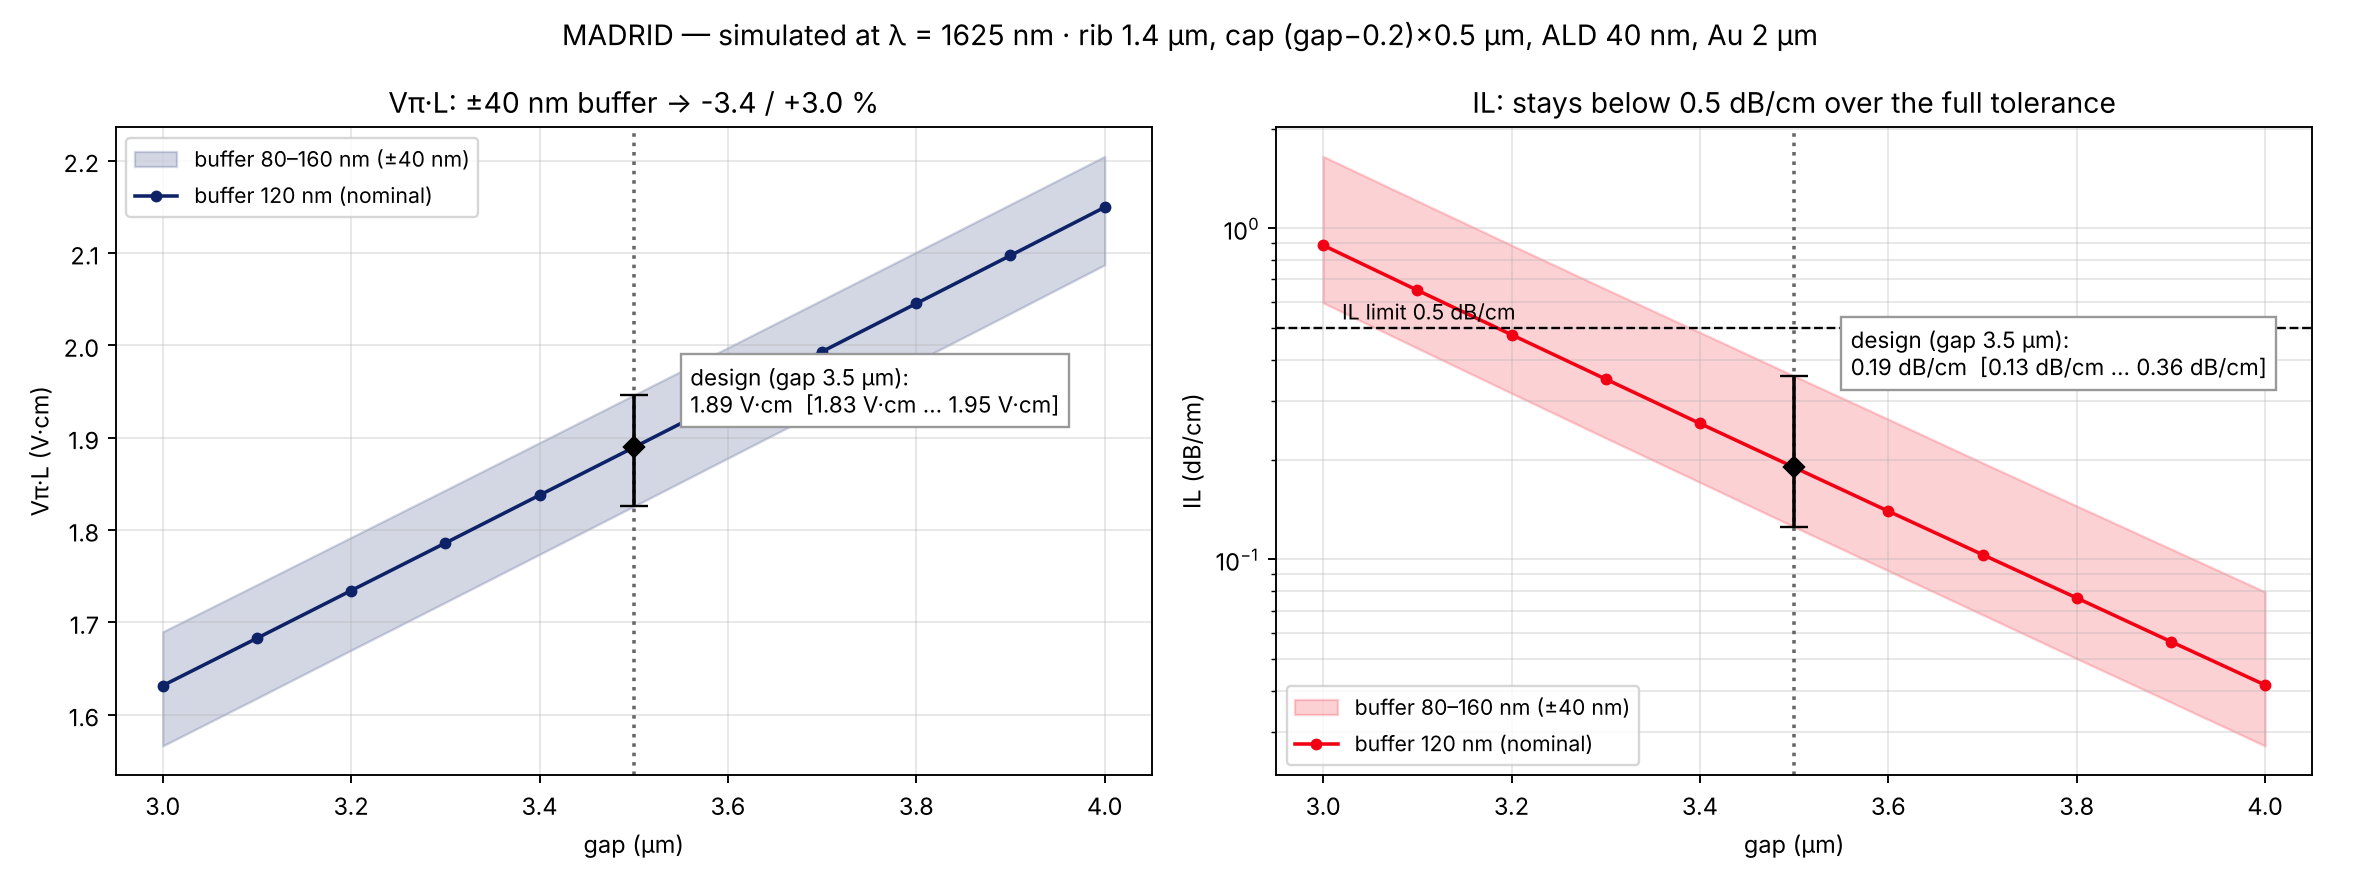
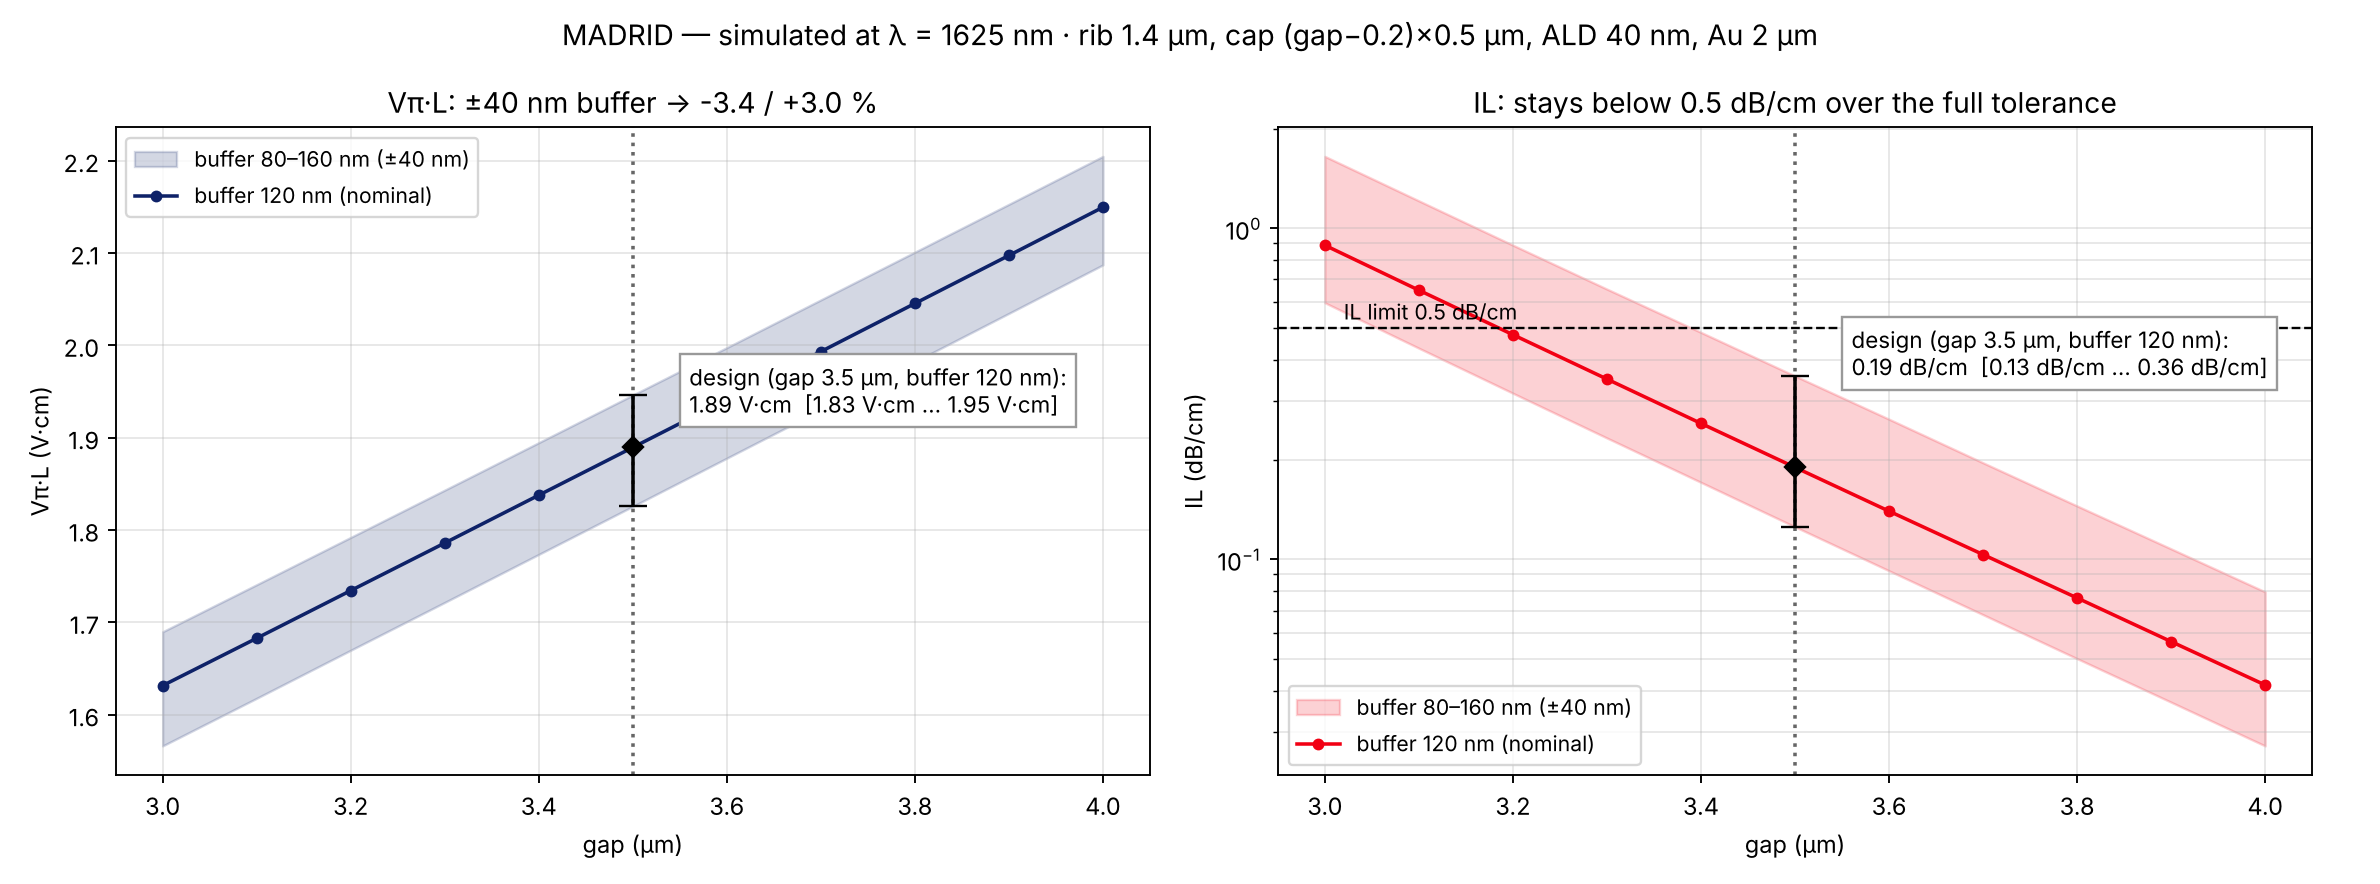
Madrid no-ALD: 55-run sweep, cross-section and tolerance plot (gap 3.2, buffer 120)
Claude-Session: https://claude.ai/code/session_01EHQDy7yrZwCZyHELu6KFb3

diff --git a/results/madrid/madrid_figs.py b/results/madrid/madrid_figs.py
@@ -1,9 +1,14 @@
-import csv, numpy as np
+import csv, sys, numpy as np
+GAP=float(sys.argv[1]) if len(sys.argv)>1 else 3.5
+BN=int(sys.argv[2]) if len(sys.argv)>2 else 120
+TA=float(sys.argv[3]) if len(sys.argv)>3 else 0.04
+SUF=sys.argv[4] if len(sys.argv)>4 else ''
 import matplotlib; matplotlib.use("Agg"); import matplotlib.pyplot as plt
 from matplotlib.patches import Polygon as P, Rectangle as R
 C=dict(Au="#f2c14e",LN="#8b95a1",SiO2="#a9cdf2",ALD="#e0218a",air="white")
 # ---------------- cross-section (true 1:1) ----------------
-GAP,B,T,MTX,CW,CH,SL,WH,WT=3.5,0.12,0.04,2.0,3.3,0.5,0.275,0.275,1.4
+B,T,MTX,CH,SL,WH,WT=BN/1e3,TA,2.0,0.5,0.275,0.275,1.4
+CW=round(GAP-0.2,3)
 WB=WT+2*WH/np.tan(np.radians(60)); yb=SL+B; ye=yb+MTX; xg=GAP/2
 def draw(a,xl,yl,big=False):
     a.add_patch(R((-60,-4.7),120,4.7,fc=C["SiO2"],ec="k",lw=.4))
@@ -18,6 +23,7 @@ def draw(a,xl,yl,big=False):
     from shapely.ops import unary_union
     sol=unary_union([sb(-60,-4.7,60,yb),sb(-CW/2,yb,CW/2,yb+CH),sb(-xg-30,yb,-xg,ye),sb(xg,yb,xg+30,ye)])
     ald=sol.buffer(T,join_style=2,mitre_limit=10).difference(sol).intersection(sb(-60,-5,60,10))
+    if T<=0: return a.set_xlim(*xl), a.set_ylim(*yl), a.set_aspect('equal'), a.set_xlabel('x (µm)'), a.set_ylabel('y (µm)')
     for p in [q for q in getattr(ald,"geoms",[ald]) if q.geom_type=="Polygon"]:
         a.add_patch(P(list(p.exterior.coords),fc=C["ALD"],ec="none",zorder=5))
         for h in p.interiors: a.add_patch(P(list(h.coords),fc="white",ec="none",zorder=5))
@@ -32,45 +38,45 @@ def dim(a,x0,x1,y,t,vert=False,off=0.05,fs=9,col="k"):
 fig=plt.figure(figsize=(16,10.5)); gs=fig.add_gridspec(2,2,height_ratios=[0.5,1.3])
 a=fig.add_subplot(gs[0,:]); draw(a,(-40,40),(-4.7,4.2))
 dim(a,-xg-30,-xg,ye+0.4,"ground 30 µm"); dim(a,xg,xg+30,ye+0.4,"signal 30 µm")
-a.text(0,ye+0.45,"gap 3.5",ha="center",fontsize=9); a.text(-38,-2.5,"BOX SiO₂ 4.7 µm",fontsize=9)
-a.set_title("MADRID — true 1:1 scale, full cross-section as simulated (λ = 1625 nm)")
+a.text(0,ye+0.45,f"gap {GAP}",ha="center",fontsize=9); a.text(-38,-2.5,"BOX SiO₂ 4.7 µm",fontsize=9)
+a.set_title(("MADRID (no ALD)" if T<=0 else "MADRID")+" — true 1:1 scale, full cross-section as simulated (λ = 1625 nm)")
 b=fig.add_subplot(gs[1,0]); draw(b,(-2.6,2.6),(-0.5,2.9))
-dim(b,-xg,xg,2.55,"gap 3.5 µm"); dim(b,-CW/2,CW/2,yb+CH+0.12,"cap 3.3 µm (gap − 0.2)",fs=8.5)
+dim(b,-xg,xg,2.55,f"gap {GAP} µm"); dim(b,-CW/2,CW/2,yb+CH+0.12,f"cap {CW} µm (gap − 0.2)",fs=8.5)
 dim(b,yb,yb+CH,-1.55,"cap 0.5 µm",vert=True,fs=8.5); dim(b,yb,ye,2.2,"Au MTX\n2.0 µm\n(≥1.5)",vert=True,fs=8.5)
 dim(b,-WT/2,WT/2,SL+WH+0.06,"rib top 1.4 µm",fs=8.5,off=0.01)
 dim(b,0,SL,-2.45,"slab 275 nm",vert=True,fs=8.5); dim(b,SL,SL+WH,-1.25,"etch 275 nm (film 550 nm)",vert=True,fs=8.5)
-b.annotate("SiO₂ buffer 120 ± 40 nm\n(whole wafer, under gold too)",(2.3,SL+B/2),(1.0,-0.33),fontsize=8,arrowprops=dict(arrowstyle="->"))
+b.annotate(f"SiO₂ buffer {BN} ± 40 nm\n(whole wafer, under gold too)",(2.3,SL+B/2),(1.0,-0.33),fontsize=8,arrowprops=dict(arrowstyle="->"))
 b.text(-2.5,-0.35,"rib walls 60°, bottom 1.72 µm",fontsize=8.5)
 b.set_title("One gap (1:1)")
 c=fig.add_subplot(gs[1,1]); draw(c,(1.45,2.05),(0.15,0.9))
-dim(c,SL,yb,1.5,"buffer\n120 nm",vert=True,fs=9); dim(c,CW/2,xg,0.84,"slot 0.1 µm (20 nm air left)",fs=9,off=0.006)
-c.annotate("ALD Al₂O₃ 40 nm\n(conformal, after gold)",(1.665,0.55),(1.47,0.66),fontsize=9,arrowprops=dict(arrowstyle="->"))
+dim(c,SL,yb,1.5,f"buffer\n{BN} nm",vert=True,fs=9); dim(c,CW/2,xg,0.84,"slot 0.1 µm (20 nm air left)" if T>0 else "slot 0.1 µm (air)",fs=9,off=0.006)
+(c.annotate if T>0 else (lambda *x,**k:None))("ALD Al₂O₃ 40 nm\n(conformal, after gold)",(1.665,0.55),(1.47,0.66),fontsize=9,arrowprops=dict(arrowstyle="->"))
 c.text(1.9,0.6,"Au",fontsize=10); c.text(1.48,0.2,"LN slab",fontsize=9); c.text(1.48,0.42,"cap",fontsize=9)
 c.set_title("Zoom: cap / gold slot (1:1)")
 import matplotlib.patches as mp
-fig.legend(handles=[mp.Patch(color=C[k],label=l) for k,l in [("Au","gold"),("LN","LN (X-cut)"),("SiO2","SiO₂"),("ALD","ALD Al₂O₃ 40 nm")]],loc="lower center",ncol=4)
-fig.tight_layout(rect=(0,0.04,1,1)); fig.savefig("madrid_cross_section.png",dpi=170)
+fig.legend(handles=[mp.Patch(color=C[k],label=l) for k,l in [("Au","gold"),("LN","LN (X-cut)"),("SiO2","SiO₂")]+([("ALD","ALD Al₂O₃ 40 nm")] if T>0 else [])],loc="lower center",ncol=4)
+fig.tight_layout(rect=(0,0.04,1,1)); fig.savefig(f"madrid_cross_section{SUF}.png",dpi=170)
 # ---------------- FOM plot ----------------
-rows=[r for r in csv.DictReader(open("madrid_sweep.csv")) if r["ald_nm"]=="40" and r["mtx_um"] in("2.0","2")]
+rows=[r for r in csv.DictReader(open("madrid_sweep.csv")) if r["ald_nm"]==str(round(TA*1e3)) and r["mtx_um"] in("2.0","2")]
 def get(b):
     rr=sorted([r for r in rows if int(r["buffer_nm"])==b],key=lambda r:float(r["gap_um"]))
     return np.array([float(r["gap_um"]) for r in rr]),np.array([float(r["IL_dB_per_cm"]) for r in rr]),np.array([float(r["VpiL_Vcm"]) for r in rr])
-g,i80,v80=get(80); _,i120,v120=get(120); _,i160,v160=get(160)
+g,i80,v80=get(BN-40); _,i120,v120=get(BN); _,i160,v160=get(BN+40)
 fig,(a1,a2)=plt.subplots(1,2,figsize=(14,5.2))
-a1.fill_between(g,v80,v160,color="#0E2268",alpha=.18,label="buffer 80–160 nm (±40 nm)")
-a1.plot(g,v120,"o-",color="#0E2268",ms=4,label="buffer 120 nm (nominal)")
-a2.fill_between(g,i160,i80,color="#F20013",alpha=.18,label="buffer 80–160 nm (±40 nm)")
-a2.semilogy(g,i120,"o-",color="#F20013",ms=4,label="buffer 120 nm (nominal)")
+a1.fill_between(g,v80,v160,color="#0E2268",alpha=.18,label=f"buffer {BN-40}–{BN+40} nm (±40 nm)")
+a1.plot(g,v120,"o-",color="#0E2268",ms=4,label=f"buffer {BN} nm (nominal)")
+a2.fill_between(g,i160,i80,color="#F20013",alpha=.18,label=f"buffer {BN-40}–{BN+40} nm (±40 nm)")
+a2.semilogy(g,i120,"o-",color="#F20013",ms=4,label=f"buffer {BN} nm (nominal)")
 a2.axhline(0.5,color="k",ls="--",lw=1); a2.text(3.02,0.53,"IL limit 0.5 dB/cm",fontsize=9)
-k=list(g).index(3.5)
+k=list(g).index(GAP)
 for a,lo,mid,hi,f in ((a1,v80[k],v120[k],v160[k],"{:.2f} V·cm"),(a2,i160[k],i120[k],i80[k],"{:.2f} dB/cm")):
-    a.axvline(3.5,color="0.4",ls=":"); a.errorbar([3.5],[mid],yerr=[[mid-lo],[hi-mid]],fmt="D",color="k",capsize=6,zorder=5)
-    a.annotate(f"design (gap 3.5 µm):\n{f.format(mid)}  [{f.format(lo)} … {f.format(hi)}]",(3.5,mid),(3.56,mid*(1.02 if a is a1 else 1.9)),fontsize=9.5,
+    a.axvline(GAP,color="0.4",ls=":"); a.errorbar([GAP],[mid],yerr=[[mid-lo],[hi-mid]],fmt="D",color="k",capsize=6,zorder=5)
+    a.annotate(f"design (gap {GAP} µm, buffer {BN} nm):\n{f.format(mid)}  [{f.format(lo)} … {f.format(hi)}]",(GAP,mid),(GAP+0.06,mid*(1.02 if a is a1 else 1.9)),fontsize=9.5,
                bbox=dict(fc="white",ec="0.6"))
 a1.set_ylabel("Vπ·L (V·cm)"); a2.set_ylabel("IL (dB/cm)")
 for a in (a1,a2): a.set_xlabel("gap (µm)"); a.grid(alpha=.3,which="both"); a.legend(loc="upper left" if a is a1 else "lower left",fontsize=9)
 a1.set_title(f"Vπ·L: ±40 nm buffer → {100*(v80[k]/v120[k]-1):+.1f} / {100*(v160[k]/v120[k]-1):+.1f} %")
 a2.set_title("IL: stays below 0.5 dB/cm over the full tolerance")
-fig.suptitle("MADRID — simulated at λ = 1625 nm · rib 1.4 µm, cap (gap−0.2)×0.5 µm, ALD 40 nm, Au 2 µm",fontsize=12)
-fig.tight_layout(); fig.savefig("madrid_fom_tolerance.png",dpi=170)
+fig.suptitle("MADRID — simulated at λ = 1625 nm · rib 1.4 µm, cap (gap−0.2)×0.5 µm, "+("no ALD" if TA<=0 else "ALD 40 nm")+", Au 2 µm",fontsize=12)
+fig.tight_layout(); fig.savefig(f"madrid_fom_tolerance{SUF}.png",dpi=170)
 print(v80[k],v120[k],v160[k],i160[k],i120[k],i80[k])
